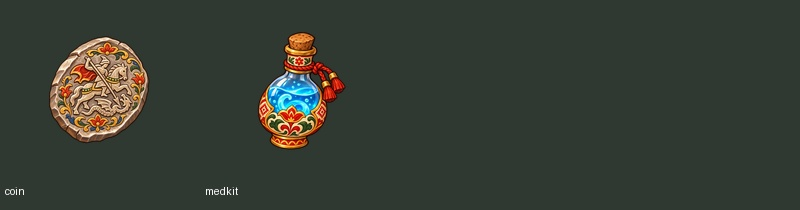
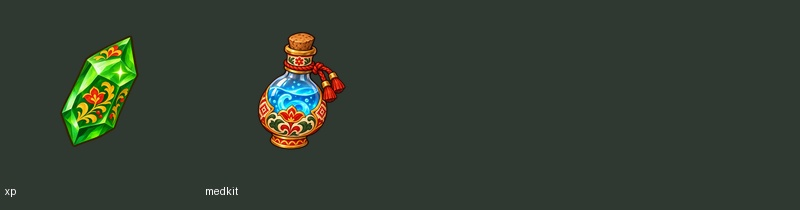
Green experience crystal and opaque store covers from the pipeline; covers exempt from the transparency check

Changed region(s): [[0.0625, 0.1714, 0.1875, 0.6857], [0.0, 0.8857, 0.0312, 0.9429]]

diff --git a/art/verify_generated_assets.py b/art/verify_generated_assets.py
@@ -19,7 +19,7 @@ for spec in assets:
         if im.size != (spec['w'], spec['h']):
             errors.append(f'Wrong dimensions: {spec["file"]}: {im.size}')
         alpha = im.convert('RGBA').getchannel('A').getextrema()
-        opaque = spec['file'].startswith(('terrain/',))
+        opaque = spec['file'].startswith(('terrain/', 'cover/'))  # ground tiles and store covers have no transparency
         if opaque and alpha != (255, 255):
             errors.append(f'Unexpected transparency: {spec["file"]}')
         # Generated sprites can have near-opaque interiors (254) and valid alpha.

diff --git a/art/ART_TODO.md b/art/ART_TODO.md
@@ -1,6 +1,6 @@
 # Что сгенерировать сейчас
 
-Файл создан скриптом `node art/art_todo.mjs` (03.11.2026, 20:50:46). Генерируй **только** картинки из этого списка — остальные уже готовы.
+Файл создан скриптом `node art/art_todo.mjs` (04.11.2026, 12:13:46). Генерируй **только** картинки из этого списка — остальные уже готовы.
 
 Стиль: hand-painted cartoon game art in the style of old Russian folk fairy-tale book illustrations, bold dark outlines, chunky readable silhouettes, warm earthy palette with saturated folk-ornament accents (red, gold, deep green, blue), soft cel shading, slightly cute proportions
 Референс: References/style.png (сделать первым: богатырь Иван — hero/ivan.png — и утвердить стиль)
@@ -11,31 +11,4 @@
 Потом сожми тяжёлые картинки: `python art/compress_sprites.py` (оригиналы останутся в art/originals).
 После этого снова запусти `node art/art_todo.mjs` — сделанное пропадёт из списка.
 
-Осталось: **4**
-
-## pickup/xp.png — 128×128
-
-- Почему: новая картинка
-- Что: small glowing GREEN crystal of experience, bright emerald with a light-green glow, reads as green even when tiny
-- Дополнительно: One object as a game icon, centered, fills most of the frame, slight 3/4 angle, transparent background, no frame, no text.
-
-## cover/square.png — 800×800
-
-- Почему: новая картинка
-- Что: the young bogatyr Ivan (peasant son in a cream linen shirt with red embroidery, bast shoes, bare hands) standing brave in the middle, a copper falcon drone and a glowing Firebird feather spinning around him as his weapons, a crowd of fairy-tale forest minions (grey wolves, a wild boar, a quill hedgehog, toadstool imps) charging at him, the forest spirit Leshy towering in the background among dark old trees, silver coins scattered on the ground, dynamic battle mood
-- Дополнительно: Full-bleed key art for a game store page, opaque background filling the whole frame (not transparent), rich colours, strong contrast, the hero clearly readable even at small size. Square composition, hero centered, leave the top fifth calm and less detailed for the game title.
-- Черновик / разметка: art/drafts/cover/square.png
-
-## cover/portrait.png — 1080×1920
-
-- Почему: новая картинка
-- Что: the young bogatyr Ivan (peasant son in a cream linen shirt with red embroidery, bast shoes, bare hands) standing brave in the middle, a copper falcon drone and a glowing Firebird feather spinning around him as his weapons, a crowd of fairy-tale forest minions (grey wolves, a wild boar, a quill hedgehog, toadstool imps) charging at him, the forest spirit Leshy towering in the background among dark old trees, silver coins scattered on the ground, dynamic battle mood
-- Дополнительно: Full-bleed key art for a game store page, opaque background filling the whole frame (not transparent), rich colours, strong contrast, the hero clearly readable even at small size. Tall portrait composition, hero in the lower middle, Leshy above, leave the top sixth calm and less detailed for the game title.
-- Черновик / разметка: art/drafts/cover/portrait.png
-
-## cover/landscape.png — 1920×1080
-
-- Почему: новая картинка
-- Что: the young bogatyr Ivan (peasant son in a cream linen shirt with red embroidery, bast shoes, bare hands) standing brave in the middle, a copper falcon drone and a glowing Firebird feather spinning around him as his weapons, a crowd of fairy-tale forest minions (grey wolves, a wild boar, a quill hedgehog, toadstool imps) charging at him, the forest spirit Leshy towering in the background among dark old trees, silver coins scattered on the ground, dynamic battle mood
-- Дополнительно: Full-bleed key art for a game store page, opaque background filling the whole frame (not transparent), rich colours, strong contrast, the hero clearly readable even at small size. Wide landscape composition, hero left of center, minions coming from the right, leave the top fifth calm and less detailed for the game title.
-- Черновик / разметка: art/drafts/cover/landscape.png
+**Всё готово — генерировать нечего.**

diff --git a/art/GENERATION_STATUS.md b/art/GENERATION_STATUS.md
@@ -1,9 +1,9 @@
-# Статус генерации — 3 ноября 2026
+# Статус генерации — 4 ноября 2026
 
 - После продолжения сохранено 56 готовых картинок: партии 034–044 по пять и `hero/ivan_2.png` из партии 045. Размеры проверены; прозрачность проверена при сохранении. Полные запросы и исходники записаны в `GENERATION_LOG.jsonl`.
-- Осталось 194 картинки по текущему списку. `ART_TODO.md` обновлён.
-- Генерация остановилась из-за ответа ImageGen `usage_limit_reached`. Сервис сообщил время обновления лимита: 3 ноября 2026, 22:01:18 по Москве (19:01:18 UTC). Это время сообщено сервисом, не гарантия доступности.
-- Три обложки из партии 045 сохранены в `art/drafts/cover/`. Они требуют исправления прозрачности через ImageGen с `transparent_background: false`; в готовые игровые файлы не внесены. У квадратной обложки видимый прозрачный участок сверху; у вертикальной и горизонтальной тоже есть неполная непрозрачность.
-- Следующая пятёрка: `cover/square.png`, `cover/portrait.png`, `cover/landscape.png`, `hero/ivan_3.png`, `hero/alyosha_2.png`.
+- Завершено: по актуальному списку осталось 0 картинок. `ART_TODO.md` обновлён.
+- 4 ноября партия 046 сохранена в `public/sprites/`: `pickup/xp.png` (128×128), `cover/square.png` (800×800), `cover/portrait.png` (1080×1920), `cover/landscape.png` (1920×1080). Размеры проверены после сжатия. Кристалл зелёный, фон прозрачный; у всех трёх обложек фон полностью непрозрачный, диапазон alpha 255–255.
+- Черновики обложек из партии 045 оставлены в `art/drafts/cover/` для истории. В партии 046 через ImageGen исправлена их прозрачность; готовые обложки сохранены в игровых папках.
+- 3 ноября в 21:04 по Москве выполнена повторная попытка генерации `pickup/xp.png`. ImageGen снова вернул `usage_limit_reached`, обновление лимита указано на 22:01:18 по Москве. В этой попытке новых изображений не получено; остальные три запроса не отправлялись после подтверждения лимита.
 - Для обложек нужен сплошной фон, без требований изолированного спрайта. Для кадров ходьбы нужно читать поле `guide`, показывать исходник и передавать его как точный образец персонажа, сохраняя внешность, одежду, масштаб и расположение. Сохранение кадров с `guide` теперь выравнивает масштаб по первому кадру.
 - Режим: встроенный ImageGen; генерация партиями по пять, затем сохранение, журнал и следующая партия. CLI/API не использовались.

diff --git a/art/GENERATION_LOG.md b/art/GENERATION_LOG.md
@@ -229,3 +229,7 @@
 - 2026-11-03T17:21:10.639011+03:00 — `ui/water.png` — 128×128, сохранено и проверено; встроенный ImageGen.
 - 2026-11-03T17:21:10.858807+03:00 — `ui/blueprint.png` — 128×128, сохранено и проверено; встроенный ImageGen.
 - 2026-11-03T17:31:07.086113+03:00 — `hero/ivan_2.png` — 256×256, сохранено и проверено; встроенный ImageGen.
+- 2026-11-04T11:54:56.240505+03:00 — `pickup/xp.png` — 128×128, сохранено и проверено; встроенный ImageGen.
+- 2026-11-04T11:54:56.734385+03:00 — `cover/square.png` — 800×800, сохранено и проверено; встроенный ImageGen.
+- 2026-11-04T11:54:58.010050+03:00 — `cover/portrait.png` — 1080×1920, сохранено и проверено; встроенный ImageGen.
+- 2026-11-04T11:54:59.432106+03:00 — `cover/landscape.png` — 1920×1080, сохранено и проверено; встроенный ImageGen.
